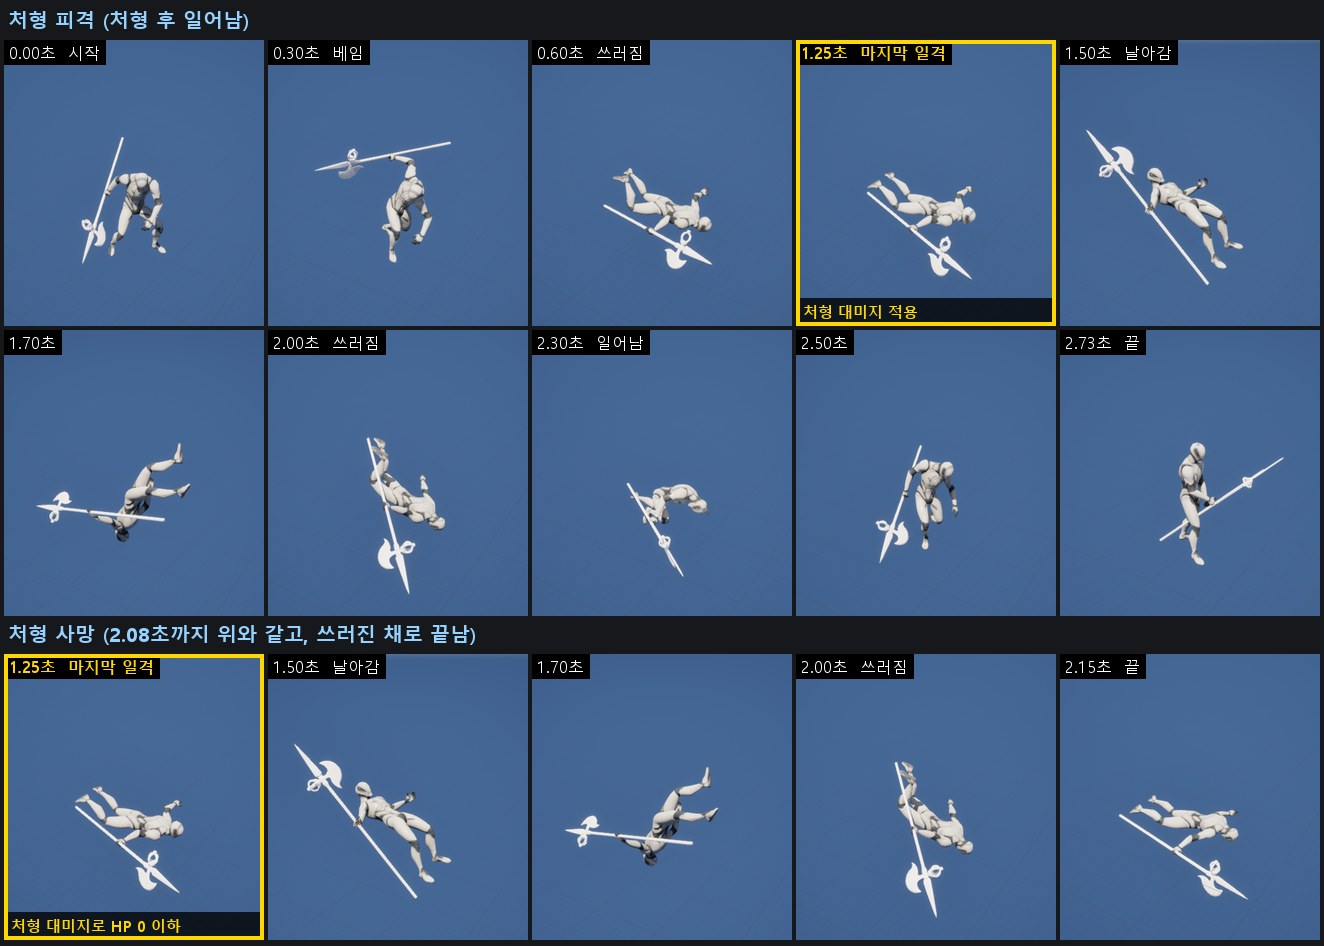
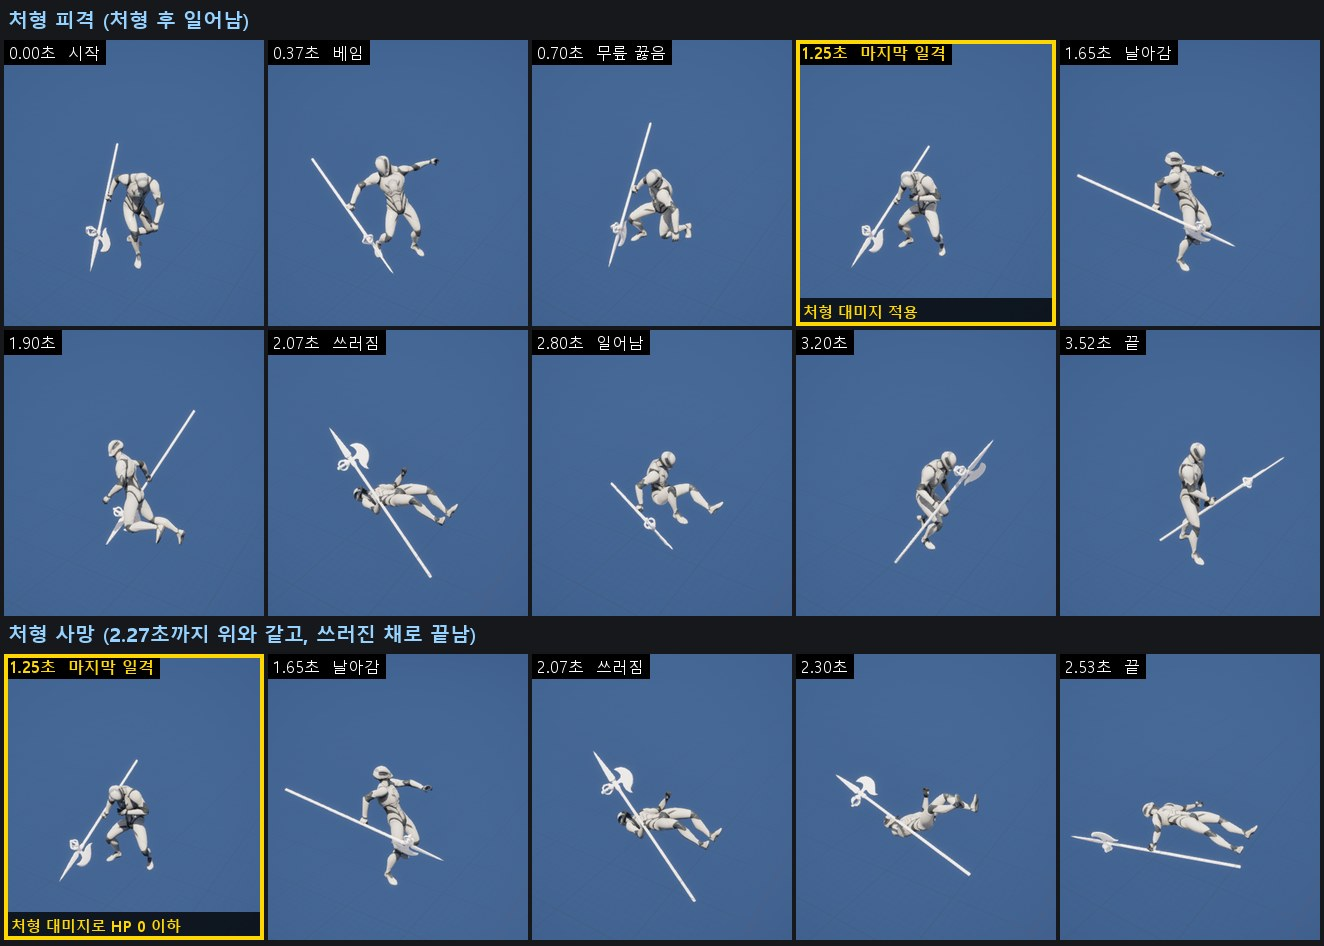
기획서: 처형 피격·처형 사망을 사무라이 팩의 짝 모션으로
처형(사무라이 Execute)은 그대로 두고, 보스의 처형 피격은
ARPG_Samurai_Anim_UE_Executed, 처형 사망은 ARPG_Samurai_Anim_UE_Executed_Death로
바꿉니다. 처형 피격 그림을 새 모션으로 다시 만들고, 두 애니메이션 조사의
짝 모션 설명을 고쳤습니다.

diff --git a/Docs/Art/할버드 애니메이션 조사.md b/Docs/Art/할버드 애니메이션 조사.md
@@ -102,11 +102,12 @@
 
 | 용도 | 후보 | 메모 |
 |---|---|---|
-| 스턴 | 워리어·사무라이 `Collide_To_Stun`(0.98초) → `Stun`(0.98초, 반복), 사무라이 `Stun_To_Idle1`(0.32초) | 선 채로 비틀거리는 자세입니다. 할버드 `Executed_Samurai`의 첫 자세와 거의 같아(본 위치 평균 8.5cm 차이) 스턴에서 처형 피격으로 바로 이어집니다. |
+| 스턴 | 워리어·사무라이 `Collide_To_Stun`(0.98초) → `Stun`(0.98초, 반복), 사무라이 `Stun_To_Idle1`(0.32초) | 선 채로 비틀거리는 자세입니다. 처형 피격 모션(사무라이 `Executed`)도 비틀거리는 자세로 시작해(본 위치 평균 약 20cm 차이) 스턴에서 처형 피격으로 블렌드해 이어집니다. |
 | 무릎 꿇기 | 없음 | 네 팩 모두 없습니다. |
 | 버프 | 워리어 `Buff`, 사무라이 `Buff`·`Buff2` (0.65초, 제자리) | |
 | 기상 | 워리어·사무라이 `Getup1_Idle1`·`Getup2_Idle1` (0.65초) | 할버드는 `Hit_knockdown` 하나에 넘어짐과 기상이 함께 들어 있습니다. |
-| 처형 | 사무라이 `Execute`(2.70초) | 할버드 `Executed_Samurai`와 짝입니다. 두 캐릭터의 크기가 다르면 간격과 맞닿는 위치가 어긋납니다. |
+| 처형 | 사무라이 `Execute`(2.70초) | 사무라이 `Executed`·`Executed_Death`(아래 '처형 피격')와 짝입니다. 할버드 `Executed_Samurai`도 이 모션에 당하는 모션이지만, 마지막 일격 때 바닥에 누워 있어 찌르기가 몸에 닿지 않습니다. 두 캐릭터의 크기가 다르면 간격과 맞닿는 위치가 어긋납니다. |
+| 처형 피격 | 사무라이 `Executed`(3.52초), `Executed_Death`(2.53초) | 사무라이 `Execute`에 당하는 모션입니다. 0.35·0.52초 베기에 물러나며 무릎 꿇고, 1.25초 마지막 일격에 칼이 꽂힌 채 버티다가 1.6초에 뒤로 날아가 쓰러집니다. `Executed`는 끝에 일어나고, `Executed_Death`는 쓰러진 채 끝납니다. |
 
 ## 무기 부착
 
@@ -132,8 +133,8 @@
 | 움찔 | 사무라이 `Hit14` | 플레이어 움찔과 같은 모션을 하던 동작 위에 덧입혀 재생합니다. 0.48초로 짧아 패턴을 가리지 않습니다. 다른 팩에서 빌려 옵니다. |
 | 그로기 | `Collide_To_Stun` → `Stun`(반복) → `Stun_To_Idle1` | 선 채로 비틀거리는 자세입니다. 다른 팩에서 빌려 옵니다. ('다른 팩에서 빌릴 수 있는 모션' 참고) |
 | 페이즈 전환 포효 | `Buff` | 다른 팩에서 빌려 옵니다. ('다른 팩에서 빌릴 수 있는 모션' 참고) |
-| 처형 피격 | `Executed_Samurai` | 사무라이 팩 `Execute`와 짝입니다. |
-| 처형 사망 | `Executed_Death` | `Executed_Samurai`와 2.08초까지 같은 모션이고, 일어나지 않고 쓰러진 채로 끝납니다. 처형의 마지막 일격(약 1.25초)보다 뒤에서 갈라지므로, 사망한 순간 이 모션으로 바꿔 이어도 자세가 튀지 않습니다. |
+| 처형 피격 | 사무라이 `Executed` | 사무라이 팩 `Execute`와 짝입니다. 다른 팩에서 빌려 옵니다. ('다른 팩에서 빌릴 수 있는 모션' 참고) |
+| 처형 사망 | 사무라이 `Executed_Death` | `Executed`와 2.27초까지 같은 모션이고, 일어나지 않고 쓰러진 채로 끝납니다. 처형의 마지막 일격(약 1.25초)보다 뒤에서 갈라지므로, 사망한 순간 이 모션으로 바꿔 이어도 자세가 튀지 않습니다. |
 | 사망 | 없음 | 래그돌로 쓰러집니다. 처형으로 사망할 때만 위의 `Executed_Death`를 씁니다. ([전투 시스템](<../Design/전투 시스템.md>)의 사망 처리) |
 
 ## 조사 방법

diff --git a/Docs/Art/Samurai 애니메이션 조사.md b/Docs/Art/Samurai 애니메이션 조사.md
@@ -192,7 +192,7 @@
 | 회피 반격 | `Attack_Heavy1` | 2.9m를 0.2초 만에 다가가 벱니다. 웅크린 자세에서 시작하므로 구르는 중이나 대기 자세에서 이을 때는 블렌드가 필요합니다. (자세 차이 40cm 이상) |
 | 스킬 | `Attack_Sprint` | 달려들며 베는 돌진 공격 |
 | 궁극기 | `Attack_Dodge` → `Attack_Combo_B1` ~ `B5` → `Attack_HeavyB` | 파고든 뒤 5번 베고, 깊게 내딛는 일격으로 마무리 (6타). 평타와 모션이 겹치지 않습니다. 잇는 시점은 '연결'을 따릅니다. |
-| 처형 | `Execute` | 보스 쪽은 보스 팩의 `Executed_Samurai` |
+| 처형 | `Execute` | 보스 쪽은 짝 모션 `Executed`(처형 피격)·`Executed_Death`(처형 사망) |
 | 회피 | `Evade_*` 8방향, 이동 입력이 없으면 `Dodge` | |
 | 가드 / 가드 움찔 / 가드 밀림 / 가드 브레이크 | `Guard` 계열 / `Guard_Hit1` / `Guard_Hit2`·`3` / `Guard_Break` | |
 | 패리 | `Parry` | |

diff --git a/Docs/Design/보스 사양.md b/Docs/Design/보스 사양.md
@@ -337,7 +337,7 @@ LV_BossStage에 등장하는 보스의 스탯, 공격 패턴, AI 행동 규칙, 
 
 ![처형 피격과 처형 사망 모션](<Attachments/보스 모션 처형 피격.jpg>)
 
-모션: 처형 피격 `ARPG_Halberd_Anim_UE_Executed_Samurai`, 처형 사망 `ARPG_Halberd_Anim_UE_Executed_Death`
+모션: 처형 피격 `ARPG_Samurai_Anim_UE_Executed`, 처형 사망 `ARPG_Samurai_Anim_UE_Executed_Death`
 
 ## 연출
 
